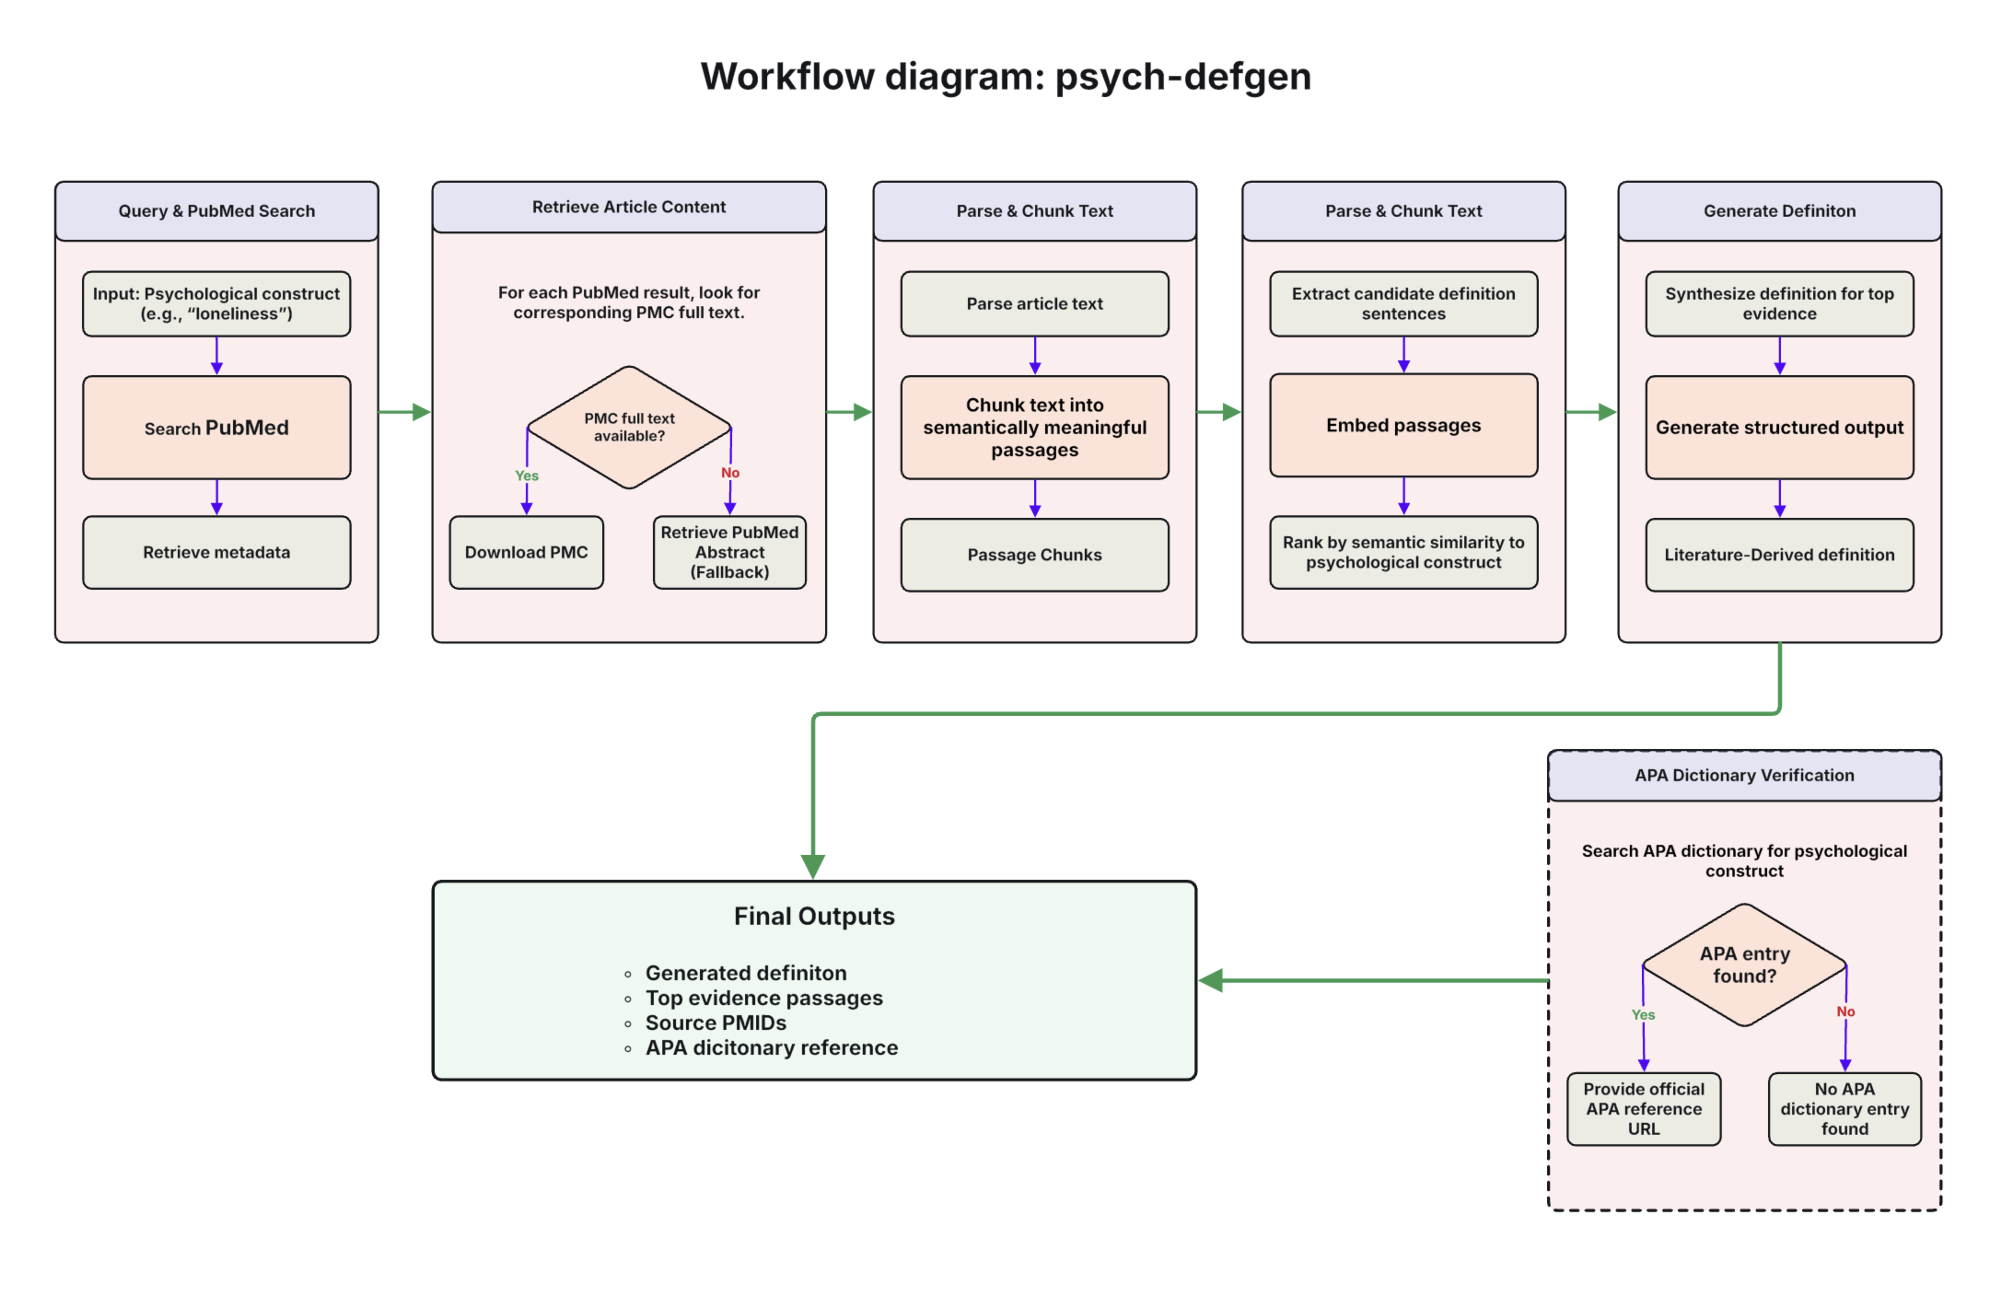
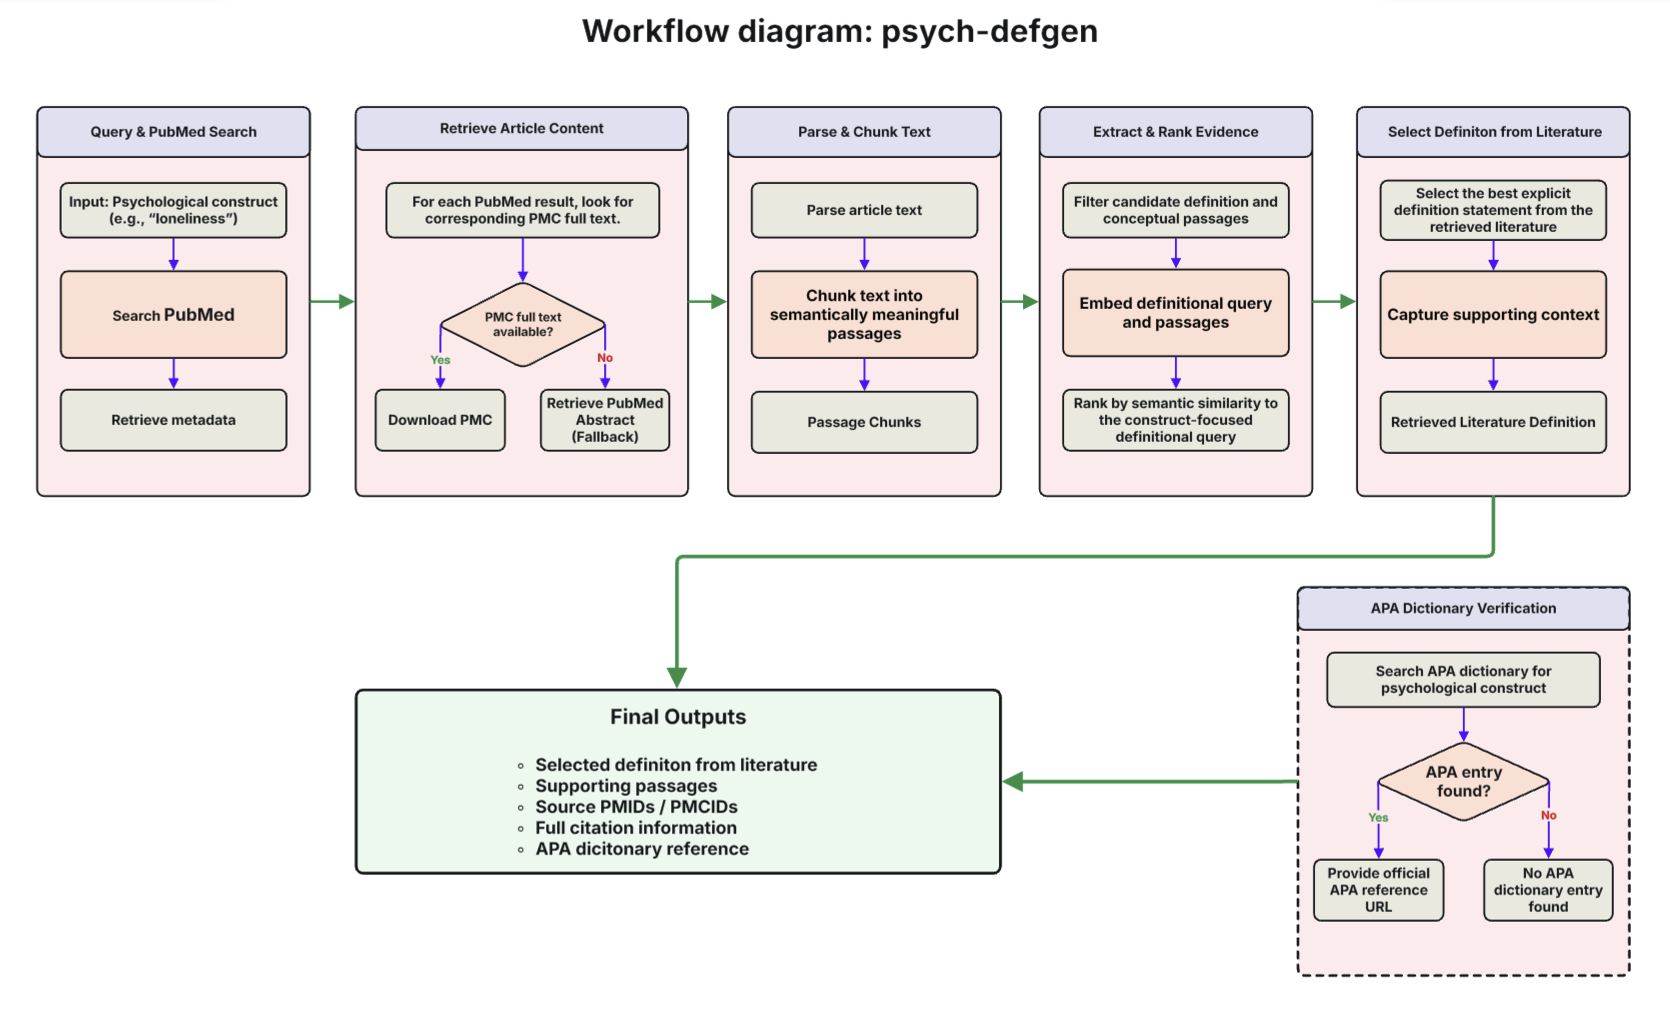
Update psychological construct definition generator

Changed region(s): [[0.0, 0.0, 0.9964, 0.9706]]

diff --git a/psychological_construct_definition_generator/README.md b/psychological_construct_definition_generator/README.md
@@ -1,11 +1,13 @@
-# Psychological Construct Definition Generator
+# Psychological Construct Definition Retrieval
 
-Psychological Construct Definition Generator is a Python package for generating evidence-based ontology-style definitions of psychological constructs from PubMed and PubMed Central (PMC) literature.
-
+Psychological Construct Definition Retrieval is a Python package for retrieving evidence-based definitions of psychological constructs from PubMed and PubMed Central (PMC) literature.
 
 ## Overview
 
-The package implements a retrieval-augmented generation (RAG) workflow that searches the biomedical literature for a target psychological construct, retrieves relevant PubMed abstracts and PubMed Central (PMC) full-text articles, extracts candidate definition statements, ranks evidence using semantic similarity, and generates a concise evidence-based definition suitable for ontology development and expert curation. The APA Dictionary of Psychology is used only to verify and reference existing dictionary entries. APA content is not used to generate the literature-derived definition.
+The package implements a literature retrieval workflow that searches the biomedical literature for a target psychological construct, retrieves relevant PubMed abstracts and PubMed Central (PMC) full-text articles, identifies candidate definition statements, ranks evidence using semantic similarity, and selects the strongest explicit definition found in the retrieved literature.
+
+The APA Dictionary of Psychology is used only to verify and reference existing dictionary entries. APA content is not used to identify definitions from the scientific literature.
+
 
 ## Workflow
 
@@ -13,145 +15,97 @@ The package implements a retrieval-augmented generation (RAG) workflow that sear
 
 ## Features
 
-
 - Search PubMed for articles related to a psychological construct.
 - Retrieve full-text articles from PubMed Central (PMC), when available.
 - Retrieve PubMed abstracts and examine them alongside available full-text articles.
-- Extract explicit candidate definition statements from PMC full text and PubMed abstracts
+- Extract candidate definition and conceptual passages from PMC full text and PubMed abstracts.
 - Chunk and prepare retrieved evidence for semantic retrieval.
 - Perform semantic retrieval using sentence-transformer embeddings.
-- Rank evidence passages by semantic relevance.
+- Rank evidence passages by cosine similarity to the construct-focused definitional query.
 - Select the strongest explicit definition found in the retrieved literature.
 - Verify APA Dictionary entries and provide the official reference URL when available.
 - Export the definition from literature and supporting evidence as Markdown.
-
 
 ---
 
 ## Installation
 
-Install the package from TestPyPI:
-
 ```bash
-pip install \
-    --index-url https://test.pypi.org/simple/ \
-    --extra-index-url https://pypi.org/simple \
-    psych-defgen-dummy
+pip install psych-defgen
+playwright install chromium
 ```
 
 
 ## Verify Installation
 
-Verify that the package is installed correctly:
-
 ```bash
-python -c "import psych_defgen_dummy; print('Package installed successfully')"
+python -c "import psych_defgen; print('Package installed successfully')"
 ```
 
 ## Development Installation
 
-To install the project from GitHub:
-
+To install development version from GitHub:
 
 ```bash
-git clone https://github.com/Buffalo-Ontology-Group/psychological_construct_definition_generator.git
-cd psychological_construct_definition_generator
+git clone https://github.com/uflcod/psych-defgen.git
+cd psych-defgen
 
 pip install -e .
+playwright install chromium
+
 ```
 
 Editable installation allows you to make changes to the source code and use them immediately without reinstalling the package.
 
 
+---
+
+## Configure NCBI Credentials
+
+This package uses the NCBI Entrez API to retrieve PubMed and PubMed Central articles.
+
+Create a `.env` file in the root of the project directory:
+
+```text
+.env
+```
+
+Add your NCBI email address and optional NCBI API key:
+
+```env
+NCBI_EMAIL=YOUR_NCBI_EMAIL
+NCBI_API_KEY=YOUR_NCBI_API_KEY
+```
+
+Replace `YOUR_NCBI_EMAIL` with your email address and `YOUR_NCBI_API_KEY` with your NCBI API key.
+
+The NCBI email address is required. The NCBI API key is optional but recommended for higher request rate limits.
+
+The package does not store or transmit your email address or API key except when making requests to the official NCBI Entrez API. These credentials are used only to identify your requests in accordance with NCBI API guidelines.
+
+Do not commit the `.env` file to the repository.
+
 
 ---
 
-# Configure NCBI Credentials
+## Usage
 
-This package uses the NCBI Entrez API to retrieve PubMed and PubMed Central articles. An NCBI email address is required to access the NCBI Entrez API. You can provide your credentials either through environment variables or as command-line arguments.
-
-## Option 1: Environment variables (recommended)
-
-### macOS / Linux
+Retrieve a definition for a psychological construct:
 
 ```bash
-export NCBI_EMAIL="YOUR_NCBI_EMAIL"
-```
-
-### Windows PowerShell
-
-```powershell
-$env:NCBI_EMAIL="YOUR_NCBI_EMAIL"
-```
-
-Replace `YOUR_NCBI_EMAIL` with your own email address.
-
-For higher request limits, you may optionally configure an NCBI API key.
-
-### macOS / Linux
-
-```bash
-export NCBI_API_KEY="YOUR_API_KEY"
-```
-
-### Windows PowerShell
-
-```powershell
-$env:NCBI_API_KEY="YOUR_API_KEY"
-```
-
-If no API key is provided, the package uses the standard NCBI request limits.
-
-## Option 2: Command-line arguments
-
-Instead of environment variables, you can provide your NCBI email directly when running the program:
-
-```bash
-python -m psych_defgen_dummy.main loneliness \
-    --email YOUR_NCBI_EMAIL
-```
-
-To also use an NCBI API key:
-
-```bash
-python -m psych_defgen_dummy.main loneliness \
-    --email YOUR_NCBI_EMAIL \
-    --api-key YOUR_API_KEY
-```
-
-If both environment variables and command-line arguments are provided, the command-line arguments take precedence.
-
-> **Note**
->
-> The package does **not** store or transmit your email address or API key except when making requests to the official NCBI Entrez API. These credentials are used only to identify your requests in accordance with NCBI API guidelines.
-
----
-
-# Usage
-
-Generate a definition for a psychological construct:
-
-```bash
-python -m psych_defgen_dummy.main loneliness
-```
-
-Alternatively, specify your NCBI email directly:
-
-```bash
-python -m psych_defgen_dummy.main loneliness \
-    --email YOUR_NCBI_EMAIL
+psych-defgen gerotranscendence
 ```
 
 Multi-word constructs are supported:
 
 ```bash
-python -m psych_defgen_dummy.main "social vulnerability"
+psych-defgen "social isolation"
 ```
 
 Specify the number of retrieved articles and evidence passages:
 
 ```bash
-python -m psych_defgen_dummy.main loneliness \
+psych-defgen "social isolation" \
     --max-results 20 \
     --top-k 5
 ```
@@ -159,55 +113,53 @@ python -m psych_defgen_dummy.main loneliness \
 Specify a custom output file:
 
 ```bash
-python -m psych_defgen_dummy.main loneliness \
-    --output results/loneliness_definition.md
-```
-
-The NCBI email can be combined with other options:
-
-```bash
-python -m psych_defgen_dummy.main loneliness \
-    --email YOUR_NCBI_EMAIL \
-    --max-results 20 \
-    --top-k 5 \
-    --output results/loneliness_definition.md
+psych-defgen "social isolation" \
+    --output results/social_isolation_definition.md
 ```
 
 Display all available command-line options:
 
 ```bash
-python -m psych_defgen_dummy.main --help
+psych-defgen --help
 ```
+
 
 ---
 
-# Output
+## Output
 
-
-By default, generated definitions are saved as Markdown files in the `outputs` directory. A custom output file can be specified using the `--output` option.
-
+By default, retrieved definitions and supporting evidence are saved as Markdown files in the `outputs` directory. A custom output file can be specified using the `--output` option.
 
 ```text
-outputs/loneliness_definition.md
+outputs/social_isolation_definition.md
 ```
 
-The output filename is automatically generated from the requested psychological construct.
+The output filename is automatically created from the requested psychological construct.
+
 
 ---
 
-# Requirements
+## Requirements
 
 - Python 3.11+
 - Valid NCBI email address
+- Chromium browser installed through Playwright
+
+Install the required Playwright browser with
+
+```bash
+playwright install chromium
+```
 
 An NCBI API key is optional but recommended for higher request rate limits.
 
+
 ---
 
-# License
+## License
 
-This project is licensed under the MIT License. 
+This project is licensed under the MIT License.
 
-# Citation
+## Citation
 
-Citation information will be updated once the accompanying manuscript is published.
+Citation information will be provided upon publication of the accompanying manuscript.
